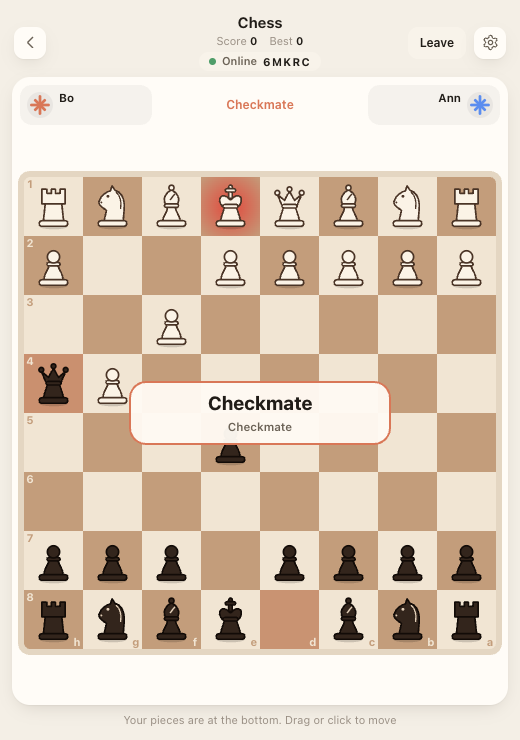
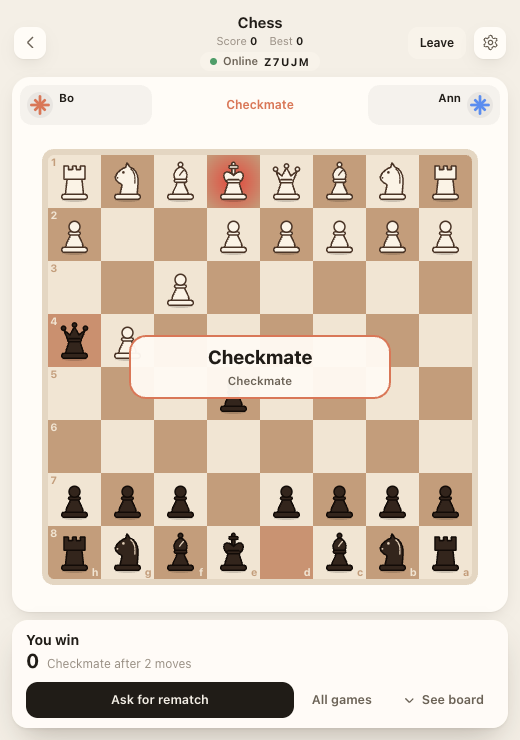
fix: address santa-loop review findings (round 3)

diff --git a/web/games/chess.js b/web/games/chess.js
@@ -1024,7 +1024,7 @@
         afterMove();
       }
       if (on) {
-        on.on('hi', (d, from) => { if (d && Number.isInteger(d.n) && d.n >= 0 && plies.length > d.n && plies.length <= 450) on.sendTo(from, 'hist', { m: plies.slice() }); });
+        on.on('hi', (d, from) => { if (d && Number.isInteger(d.n) && d.n >= 0 && plies.length > d.n && plies.length <= 600) on.sendTo(from, 'hist', { m: plies.slice() }); });
         on.on('hist', d => { if (d) catchUp(d.m); });
       }
 

diff --git a/README.md b/README.md
@@ -10,7 +10,7 @@
 <p><b>44 little games in your menu bar. Take a little break.</b></p>
 
 <p>
-  <a href="https://github.com/Solomon-69/Ludus/releases/latest"><img alt="Version 1.7.0" src="https://img.shields.io/badge/version-1.7.0-d97757?style=flat-square"></a>
+  <a href="https://github.com/Solomon-69/Ludus/releases/latest"><img alt="Version 1.12.0" src="https://img.shields.io/badge/version-1.12.0-d97757?style=flat-square"></a>
   <img alt="macOS 14 or later" src="https://img.shields.io/badge/macOS-14%2B-1f1d1a?style=flat-square&logo=apple&logoColor=white">
   <img alt="Windows 10 or 11" src="https://img.shields.io/badge/Windows-10%20%7C%2011-1f1d1a?style=flat-square">
 </p>
@@ -62,12 +62,12 @@ Ludus puts 44 small, polished games one click away. Here is what is inside.
 
 ### Play a friend on one keyboard
 
-Every board game has a <b>vs Bot / vs Friend</b> switch at the top. Pick Friend and you take turns on the same keyboard, with Player 2 in blue. The real-time games in the 2 Player group give each of you your own keys, so you can both play at once.
+Every board game has a <b>vs Bot / vs Friend</b> switch at the top. Pick Friend and you take turns on the same keyboard, with Player 2 in blue. The real-time games in the Same laptop tab give each of you your own keys, so you can both play at once.
 
-- <b>Turn-based with a friend:</b> Four in a Row, Dots and Boxes, Ultimate Tic-Tac-Toe, Hex and Dead Centre.
+- <b>Turn-based with a friend:</b> Chess, Four in a Row, Dots and Boxes, Ultimate Tic-Tac-Toe, Hex and Dead Centre.
 - <b>Secret picks:</b> in Rock Paper Scissors, Player 1 picks with <kbd>A</kbd> <kbd>S</kbd> <kbd>D</kbd> and Player 2 with <kbd>J</kbd> <kbd>K</kbd> <kbd>L</kbd>. Both hands show only once you have both locked in.
 - <b>Real time:</b> Paddle Duel, Air Hockey, Tag, Sword Duel and Tank Arena, with one player on <kbd>W</kbd> <kbd>A</kbd> <kbd>S</kbd> <kbd>D</kbd> and the other on the arrow keys. Tag takes up to four on one keyboard: P3 on <kbd>I</kbd> <kbd>J</kbd> <kbd>K</kbd> <kbd>L</kbd> (+<kbd>U</kbd>) and P4 on the number pad <kbd>8</kbd> <kbd>4</kbd> <kbd>5</kbd> <kbd>6</kbd> (+<kbd>0</kbd>).
-- All of them are in the <b>2 Player</b> tab. The panel widens by itself when a game needs the room.
+- The real-time ones are in the <b>Same laptop</b> tab; the board games keep their vs Friend switch. The panel widens by itself when a game needs the room.
 
 <br>
 
@@ -78,7 +78,7 @@ Every board game has a <b>vs Bot / vs Friend</b> switch at the top. Pick Friend 
 
 ### Play online with a room code
 
-Eighteen games can be played online from the <b>Online</b> tab: the board games Chess, Four in a Row, Dots and Boxes, Ultimate Tic-Tac-Toe, Hex, Wall Race, Rock Paper Scissors, Dead Centre and Last Wire, the action games Paddle Duel, Air Hockey and Pop Duel, the guessing games Map Hunt and Clue Spotter, and Tag, Land Claim, City Swallow and Worm Arena, which take <b>2 to 4 players</b> ( the host can press <b>Start now</b> once the room has enough players, or the game starts by itself when every seat is taken). Most games are for two players.
+Eighteen games can be played online from the <b>Online</b> tab: the board games Chess, Four in a Row, Dots and Boxes, Ultimate Tic-Tac-Toe, Hex, Wall Race, Rock Paper Scissors, Dead Centre and Last Wire, the action games Paddle Duel, Air Hockey and Pop Duel, the guessing games Map Hunt and Clue Spotter, and Tag, Land Claim, City Swallow, Worm Arena, Map Hunt and Clue Spotter, which take <b>2 to 4 players</b> ( the host can press <b>Start now</b> once the room has enough players, or the game starts by itself when every seat is taken). Most games are for two players.
 
 One player taps <b>Create room</b> and gets a 5 character room code. The <b>Copy invite</b> button copies a short message with the code and a `ludus://join/CODE` link. The other player taps <b>Join room</b> and types or pastes the code, or just clicks the link. It works on Mac and Windows. There is no account and no server of ours: the copies of Ludus talk through free public relays, and that only happens when you choose Play online. Rooms are not private: anyone who knows the code can join. See [PRIVACY.md](PRIVACY.md) and [web/ONLINE.md](web/ONLINE.md).
 
@@ -136,7 +136,7 @@ Clicking anywhere outside the panel pauses your game and saves it. Next time you
 ### Find a game in a second
 
 - Type in the search box. The best match appears first as a highlighted card, and <b>Related games</b> follow below it.
-- Tabs for All, Arcade, Puzzle, Duel, 2 Player and 3-4 Player.
+- Tabs for All, Arcade, Puzzle, Duel, Same laptop and Online.
 - Optional <b>Rename games</b> in Settings: turn it on and click a game's name to give it your own. The original name is still shown.
 
 <br>
@@ -199,7 +199,7 @@ brew install --cask ludus   # not available yet
 | **Puzzle** | 2048, Crate Push, Five Letters, Minefield, Memory, Solitaire, Sweet Match, Sudoku, Flag Quiz, Mosaic Hunt, Clue Spotter, Tongue Twister |
 | **Duel** (you against the computer) | Chess, Dots and Boxes, Dead Centre, Four in a Row, Last Wire, Ultimate Tic-Tac-Toe, Sword Duel, Hex, Rock Paper Scissors, Wall Race, Pop Duel, stick-figure brawler |
 | **Same laptop** (two people, one keyboard) | Air Hockey, Paddle Duel, Tag, Tank Arena, plus the arcade games with a vs Friend mode |
-| **Online, 2-4 players** | Tag, Land Claim, City Swallow, Worm Arena |
+| **Online, 2-4 players** | Tag, Land Claim, City Swallow, Worm Arena, Map Hunt, Clue Spotter |
 
 Chess, Four in a Row, Dots and Boxes, Ultimate Tic-Tac-Toe, Hex and Dead Centre also have a **vs Friend** mode: pick it at the top of the game.
 

diff --git a/PRIVACY.md b/PRIVACY.md
@@ -5,9 +5,9 @@
 - **Map Hunt uses the internet.** When you play Map Hunt, the app loads street photos from the free public Panoramax service (api.panoramax.xyz) and map pictures from the free OpenFreeMap servers (tiles.openfreemap.org). Those services see your internet address and the part of the world you look at, like any website would. Nothing else is sent, and there are no accounts. Ludus does not check for updates by itself.
 - **Mosaic Hunt uses the internet.** The close-up photos are loaded live from invader-spotter.art, and the map from OpenFreeMap / OpenStreetMap tiles. Those sites see your internet address, like any website would. Offline, Mosaic Hunt uses drawn pictures and bundled map tiles instead.
 - **Privacy blur (off until you turn it on) uses the camera.** It asks for camera permission the first time. Each camera frame is checked for faces in memory on your computer and thrown away at once: no picture is saved, recorded or sent anywhere. If the web view has no built-in face finder, the small open-source MediaPipe face detector (code from cdn.jsdelivr.net, model from storage.googleapis.com) is downloaded once; only that download touches the internet, never the camera picture.
-- **No other network unless you use Play online.** The games and sounds are bundled with the app. Ludus
-  does not connect to the internet on its own, and the app refuses to load any page other than its
-  own bundled files. The only exception is the optional **Play online** feature, described below.
+- **No other network.** The games and sounds are bundled with the app. Apart from Map Hunt, Mosaic Hunt,
+  Privacy blur (above) and the optional **Play online** feature (below), Ludus does not connect to the
+  internet, and the app never opens any page other than its own bundled files.
 - **Play online (opt-in).** Nothing is sent until you press *Create room* or *Join room* in an
   online-capable game. Then Ludus opens a connection to a free public relay (an MQTT message server:
   `broker.emqx.io`, `broker.hivemq.com` or `test.mosquitto.org`, tried in that order) and sends only
